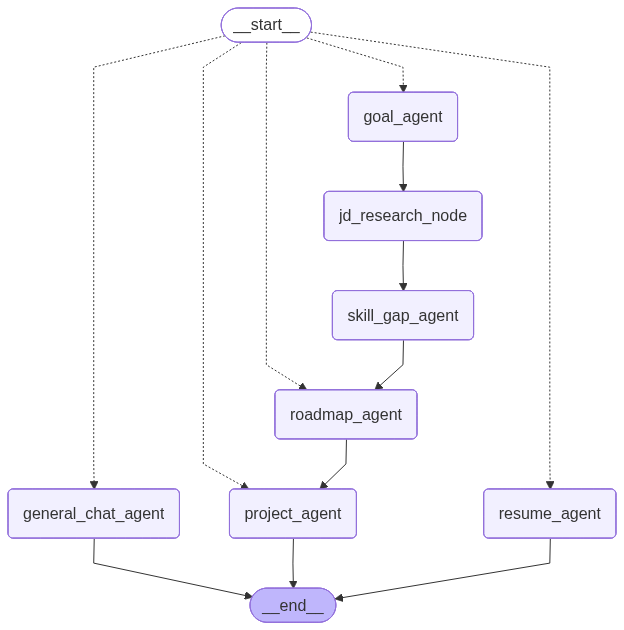
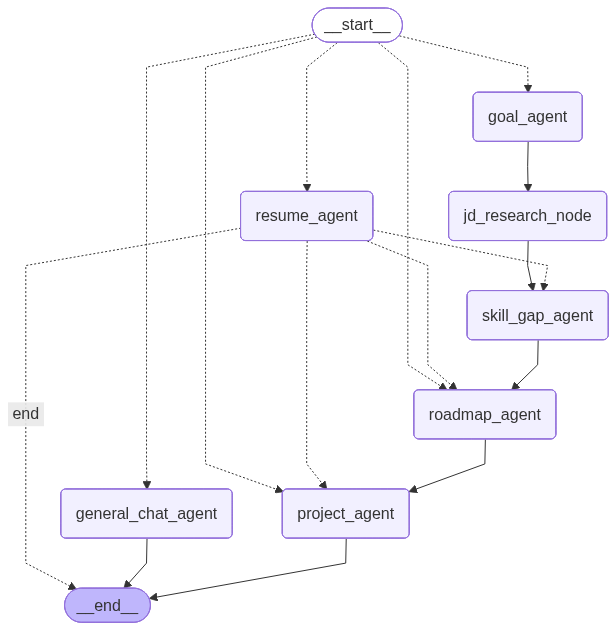
updated workflow for resume using complex agents

diff --git a/app/graph/builder.py b/app/graph/builder.py
@@ -1,8 +1,10 @@
+# app/graph/builder.py
+
 from langgraph.graph import StateGraph, START, END
 from langgraph.checkpoint.memory import MemorySaver
 
 from app.graph.state import CareerState
-from app.graph.router import route_request
+from app.graph.router import route_request, route_request
 
 # Agents
 from app.agents.goal_agent import goal_agent
@@ -29,7 +31,7 @@ builder.add_node("resume_agent", resume_agent)
 builder.add_node("general_chat_agent", general_chat_agent)
 
 # -----------------------------------
-# START -> Router
+# START -> Main Router
 # -----------------------------------
 builder.add_conditional_edges(
     START,
@@ -44,7 +46,7 @@ builder.add_conditional_edges(
 )
 
 # -----------------------------------
-# Career Pipeline
+# Goal Career Pipeline
 # -----------------------------------
 builder.add_edge("goal_agent", "jd_research_node")
 builder.add_edge("jd_research_node", "skill_gap_agent")
@@ -53,14 +55,28 @@ builder.add_edge("roadmap_agent", "project_agent")
 builder.add_edge("project_agent", END)
 
 # -----------------------------------
+# Resume Agent -> Secondary Router
+# -----------------------------------
+builder.add_conditional_edges(
+    "resume_agent",
+    route_request,
+    {
+        "project_agent": "project_agent",
+        "skill_gap_agent": "skill_gap_agent",
+        "roadmap_agent": "roadmap_agent",
+        "end": END
+    }
+)
+
+# -----------------------------------
 # Direct End Nodes
 # -----------------------------------
-builder.add_edge("resume_agent", END)
 builder.add_edge("general_chat_agent", END)
 
-# Optional direct routes
+# Direct requests from start
 builder.add_edge("roadmap_agent", END)
 builder.add_edge("project_agent", END)
+builder.add_edge("skill_gap_agent", END)
 
 # -----------------------------------
 # Memory
